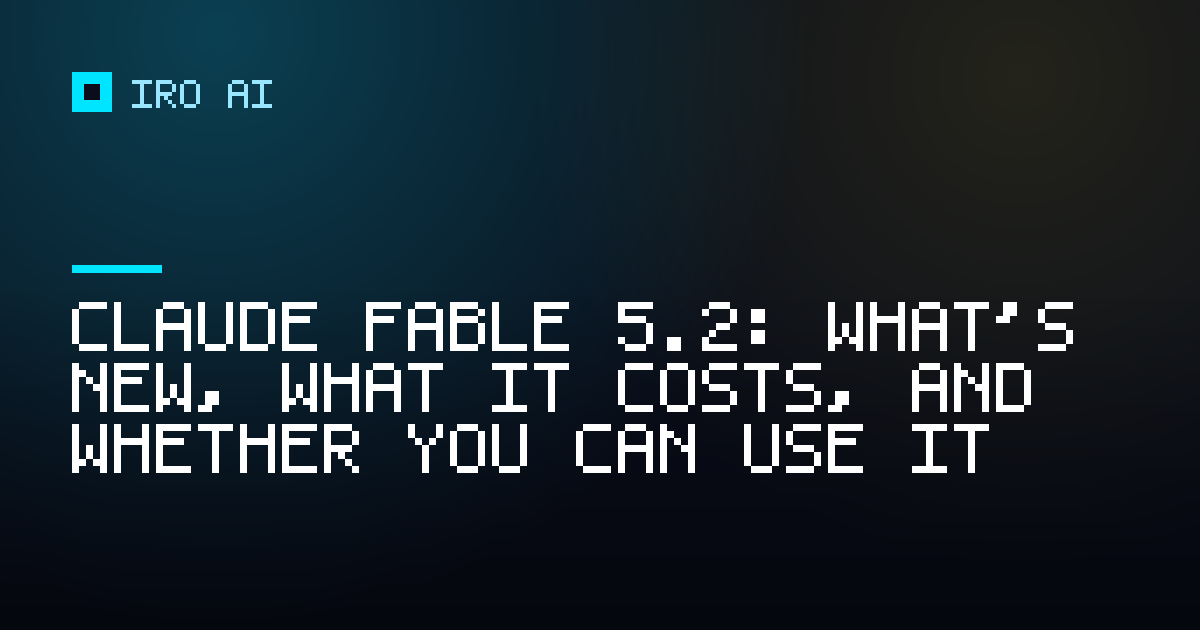
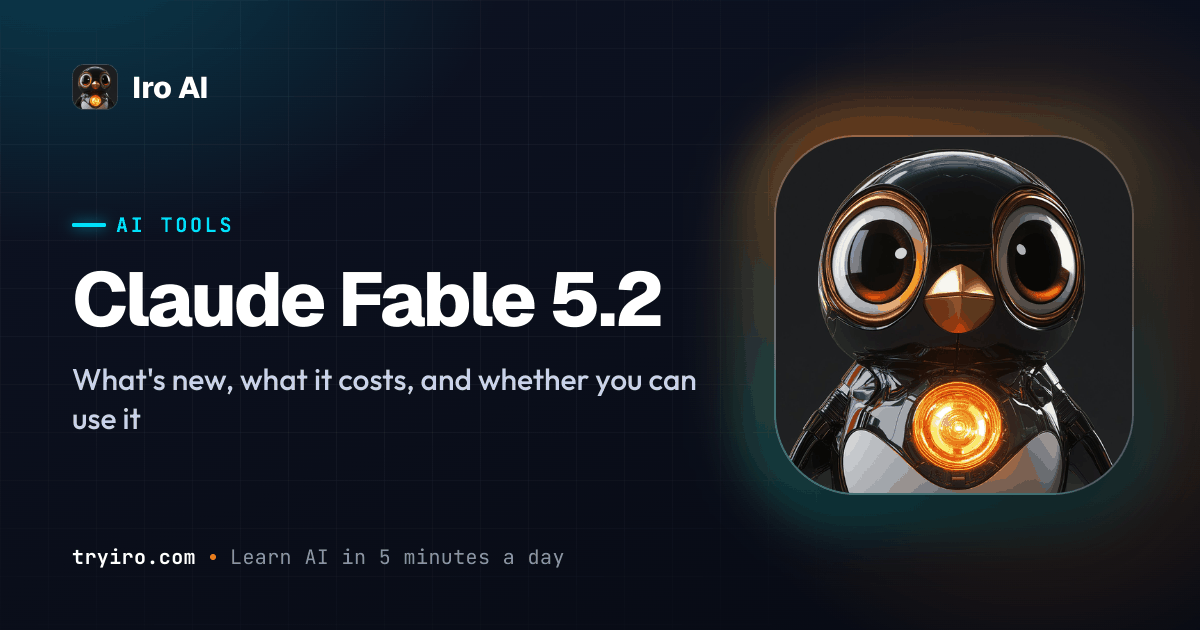
Add branded Iro covers for the stats page and 10 newest posts
New tools/branded-covers.mjs renders 1200x630 covers with the real app
icon, site fonts and the headline, written to assets/og/<slug>.png so
og:image, twitter:image and the on-page cover switch with no HTML change.

Changed region(s): [[0.0308, 0.0302, 0.9867, 0.8444], [0.0617, 0.8746, 0.4625, 0.9048]]

diff --git a/blog-engine/README.md b/blog-engine/README.md
@@ -155,6 +155,30 @@ node blog-engine/generate-hero-image.mjs --force    # regenerate all
 node blog-engine/generate-hero-image.mjs --ai       # use the image API
 ```
 
+### Branded covers (mascot + headline)
+
+`tools/branded-covers.mjs` renders the richer Iro cover: site fonts, the real app
+icon as the mascot, an eyebrow (Review, Alternatives, Buyer's guide...), the
+headline and the part of the title after a colon as a subline. It writes the
+same `assets/og/<slug>.png`, so og:image, twitter:image and the on-page cover
+all switch over with no HTML change. Posts with their own hero art are skipped.
+Pages that are not blog posts (like `/ai-learning-statistics`) and per-slug copy
+overrides live in `covers.json`.
+
+```bash
+# once: headless Chrome deps, kept outside the repo
+mkdir -p ~/.iro-covers && (cd ~/.iro-covers && npm i puppeteer-core@23 @sparticuz/chromium@131)
+export COVER_DEPS=~/.iro-covers          # or CHROME_PATH=/path/to/Chrome on a Mac
+
+node blog-engine/tools/branded-covers.mjs --latest 10               # newest posts
+node blog-engine/tools/branded-covers.mjs ai-learning-statistics    # one page
+node blog-engine/tools/branded-covers.mjs --all                     # everything
+```
+
+Covers are palette-compressed to about 140 KB when `python3` with Pillow is
+installed. Note that `generate-hero-image.mjs --force` would overwrite branded
+covers with the plain text cards.
+
 ---
 
 ## SEO / GEO
